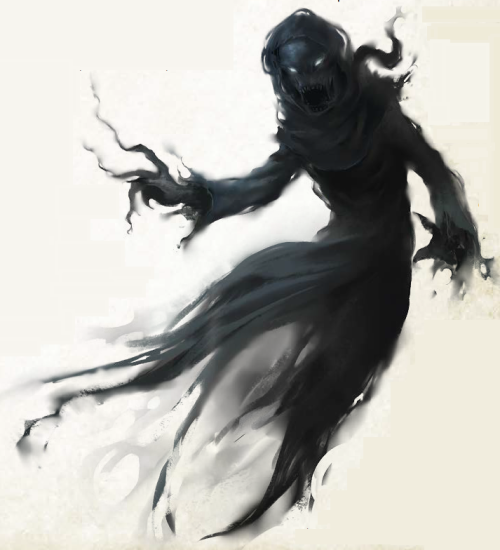
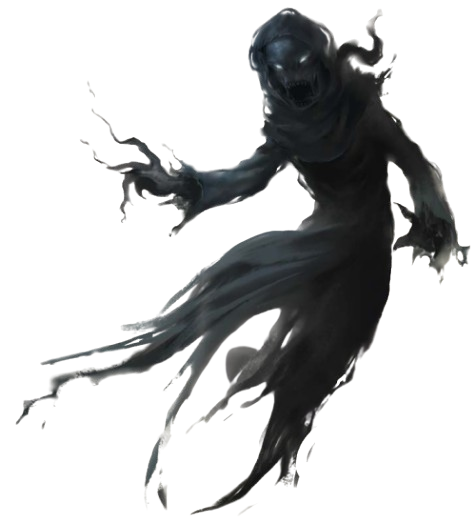
convert some images to webp

diff --git a/adversaries/index.md b/adversaries/index.md
@@ -7,5 +7,5 @@ navtitle: Adversaries
 ---
 
 {%- for adversary in collections.adversary  | sort(attribute="data.name") %}
-* <img src="{{'/img/share/' | url }}{{adversary.data.name}}.png" width="50" height="50" /><img src="{{'/img/tokens/' | url }}{{adversary.data.name}}.webp" width="50" height="50" /><a href="{{ adversary.url | url }}">{{ adversary.data.name }}</a>
+* <img src="{{'/img/share/' | url }}{{adversary.data.name}}.webp" width="50" height="50" /><img src="{{'/img/tokens/' | url }}{{adversary.data.name}}.webp" width="50" height="50" /><a href="{{ adversary.url | url }}">{{ adversary.data.name }}</a>
 {%- endfor %}
